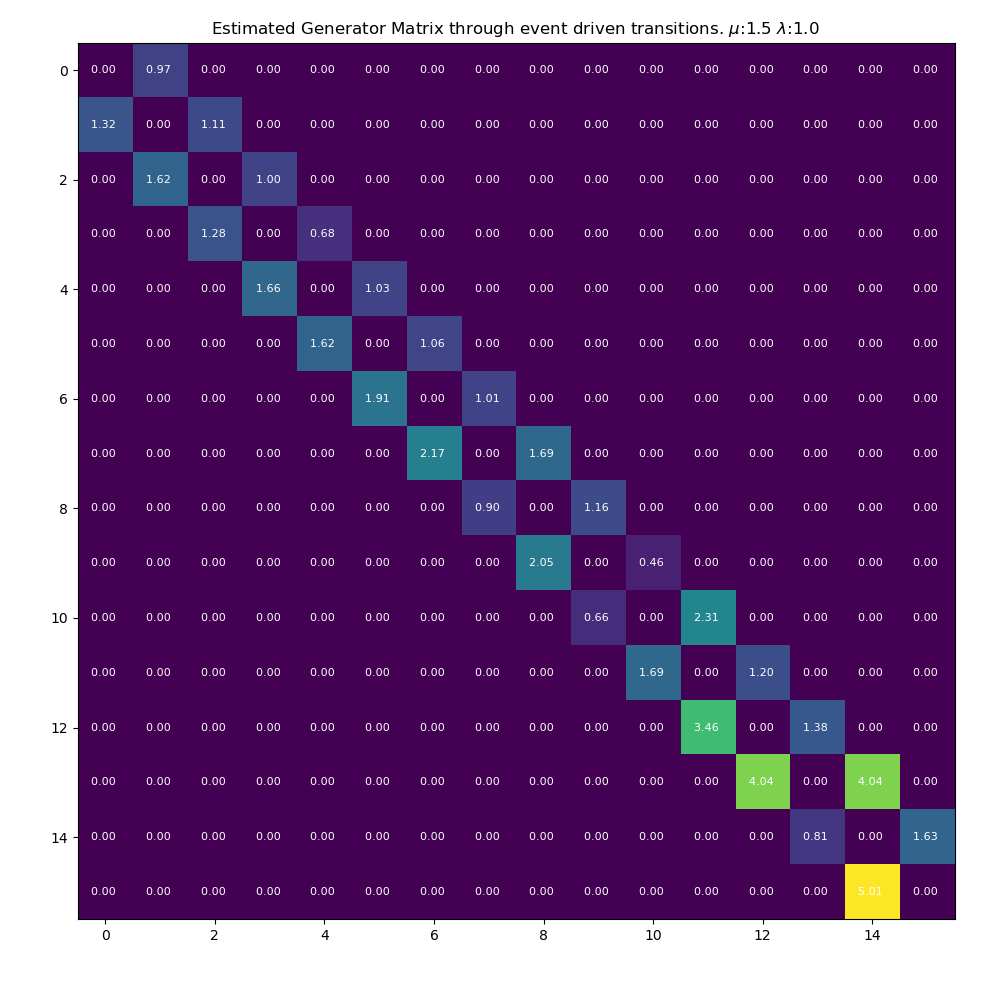
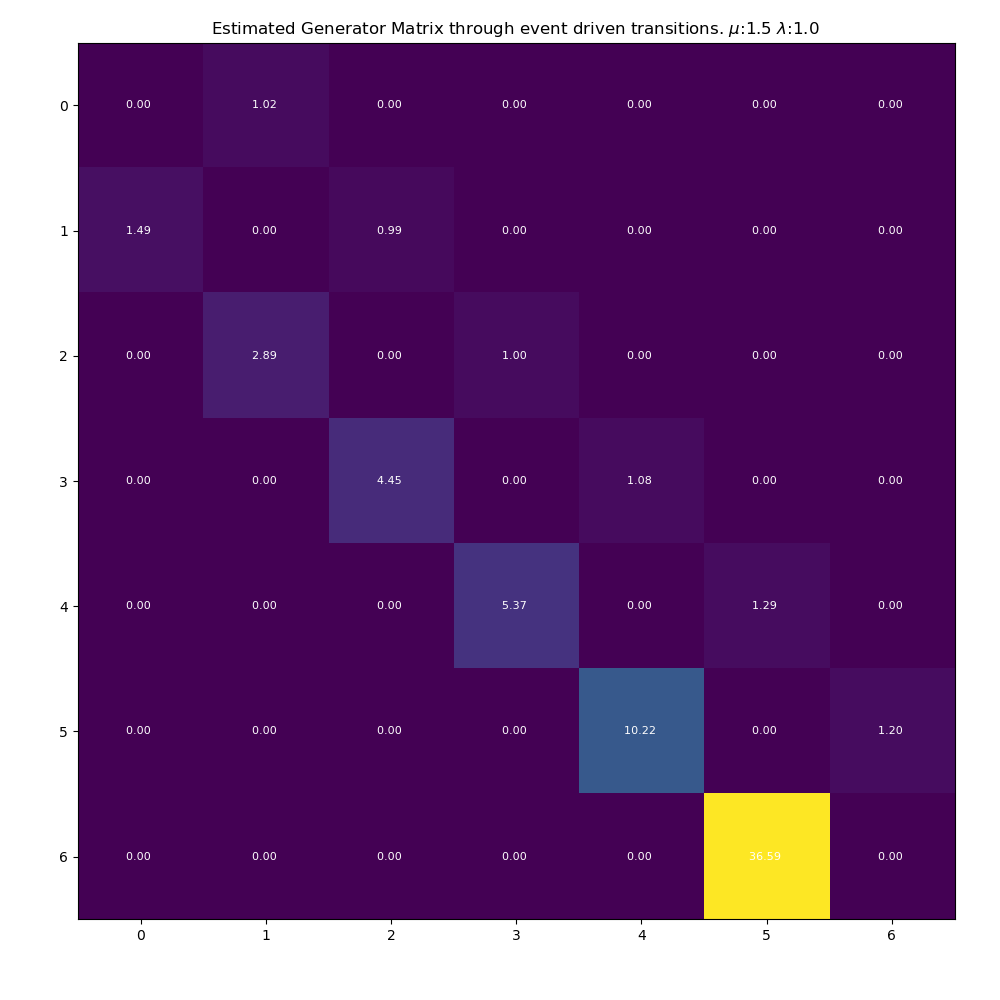
Added Preliminary Matrix

diff --git a/approximations.py b/approximations.py
@@ -165,6 +165,18 @@ if __name__ == '__main__':
     tbd = TrueBirthDeath(args.length,rates)
     holdTimes_tape, state_tape = tbd.generate_history(args.init_state)
 
+    # Show Transition Matrices
+    fig, ax = plt.subplots(1,1)
+    trans = trans_matrix(holdTimes_tape,state_tape)
+    plt.imshow(trans)
+    for i in range(trans.shape[0]):
+        for j in range(trans.shape[1]):
+            ax.text(j,i,"%.2f " % trans[i,j],ha="center",va="center",color="w",fontsize=4)
+    ax.set_title("Preliminary Transition transrix")
+
+    plt.show()
+    plt.close()
+
     if args.method == 'event_driven_mle':
         show_event_driven_mle(state_tape,holdTimes_tape,args)
     elif args.method == 'log_mat':

diff --git a/sp_sims/sanitycheck/truebirthdeath.py b/sp_sims/sanitycheck/truebirthdeath.py
@@ -1,0 +1,6 @@
+
+def generate_true_birth(lam, mu):
+    # Given Lambda Mu 
+    # Generate Generator Matrix
+
+def one_step_transitions()
